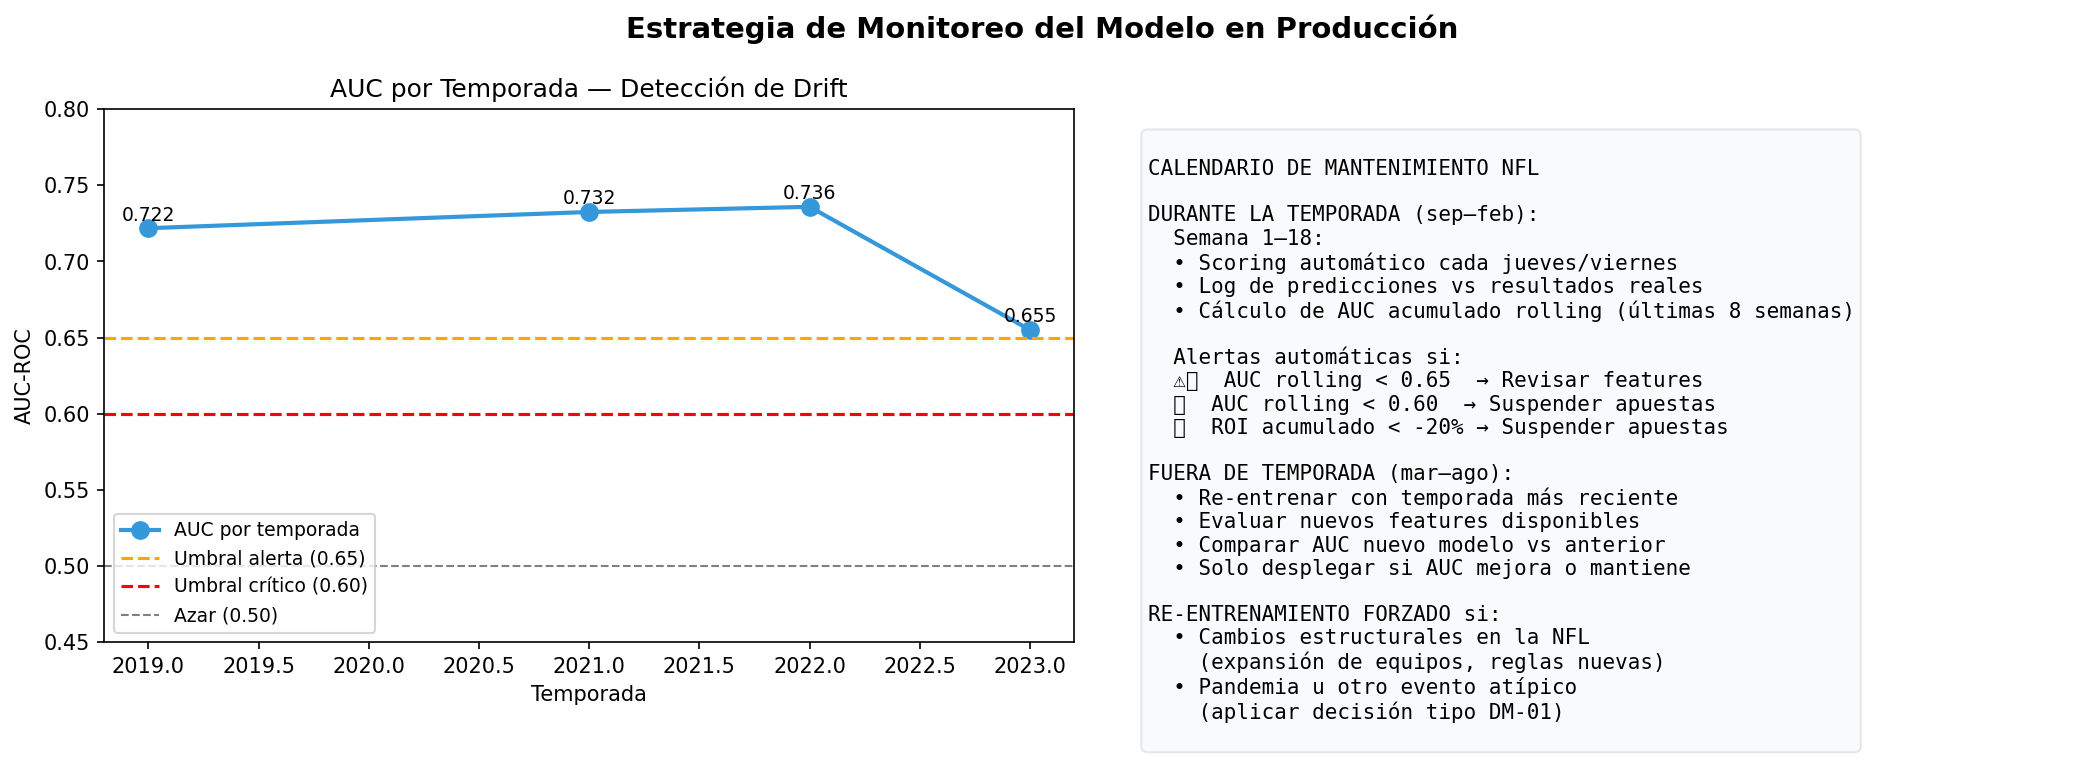
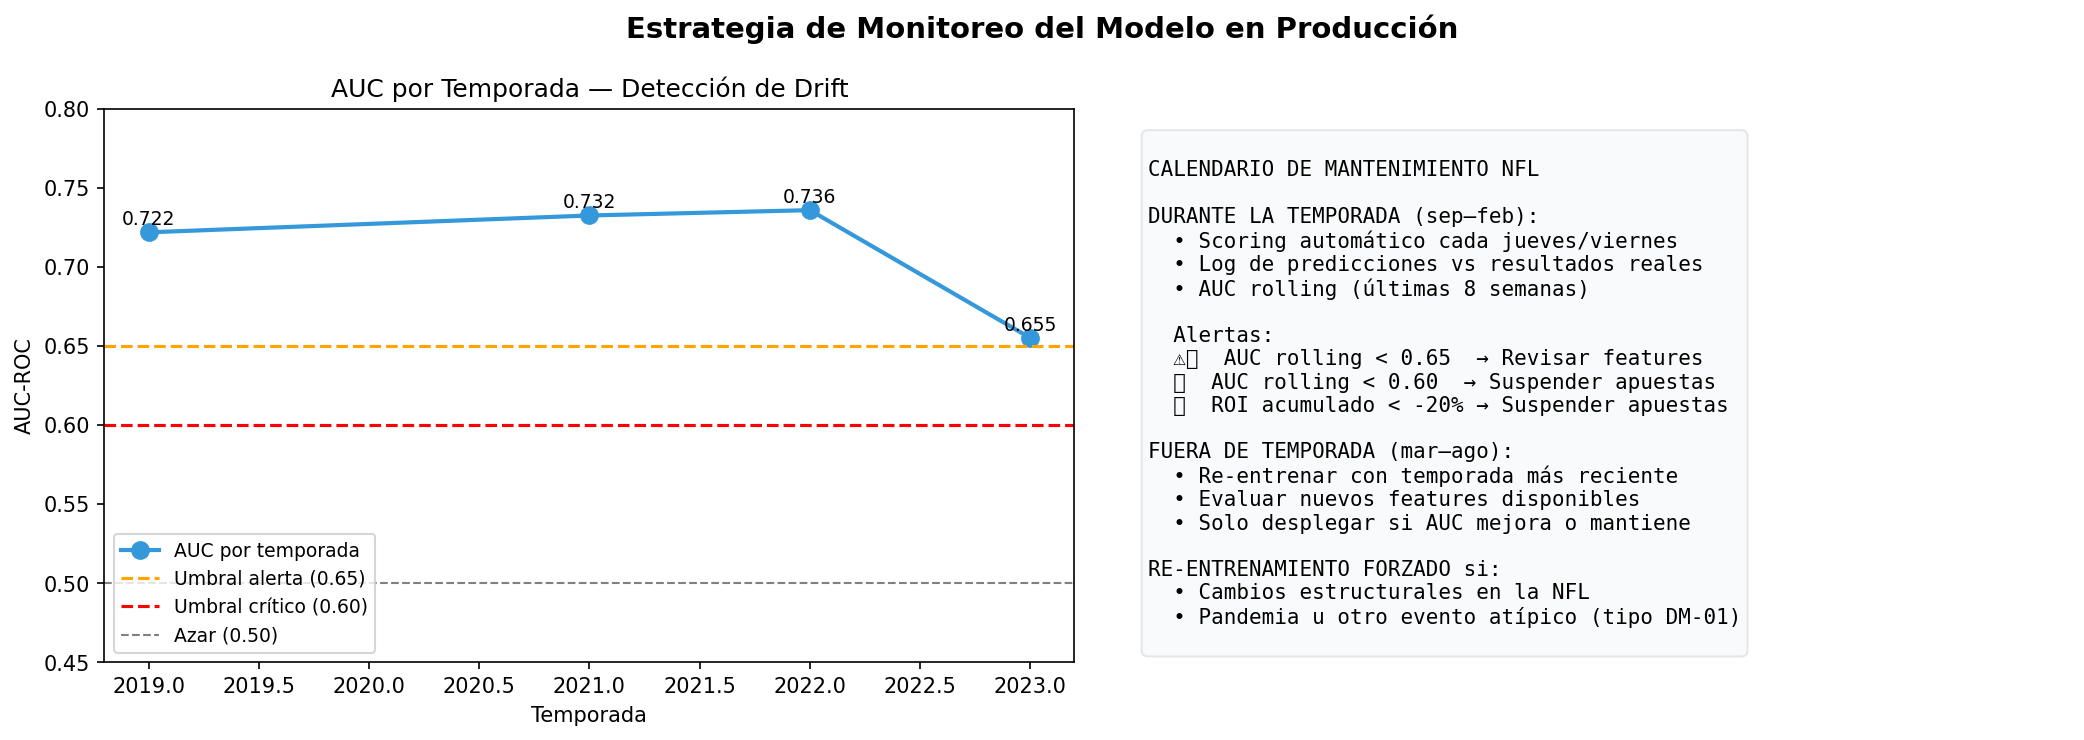
Notebook limpio - imports y dependencias consolidados en celdas 0 y 1

diff --git a/README.md b/README.md
@@ -7,21 +7,15 @@ Metodología: **CRISP-DM** | Lenguaje: **Python**
 
 ## 📋 Descripción
 
-¿Es posible construir un modelo predictivo que supere la probabilidad implícita
-de las casas de apuestas en la NFL?
+¿Es posible construir un modelo predictivo que supere la probabilidad implícita de las casas de apuestas en la NFL?
 
-Este proyecto desarrolla y evalúa tres modelos de clasificación supervisada
-(Regresión Logística, Random Forest y XGBoost) entrenados con datos históricos
-de la NFL (2002–2023) para predecir el ganador de cada partido y evaluar
-si existe una ventaja estadística explotable frente a las cuotas de las casas.
+Este proyecto desarrolla y evalúa tres modelos de clasificación supervisada (Regresión Logística, Random Forest y XGBoost) entrenados con datos históricos de la NFL (2002–2023) para predecir el ganador de cada partido.
 
 ---
 
 ## 🎯 Pregunta de negocio
 
-> ¿Puede un modelo de clasificación supervisado generar probabilidades de victoria
-> suficientemente precisas como para identificar apuestas con valor esperado
-> positivo frente a las cuotas históricas de las casas de apuestas NFL?
+> ¿Puede un modelo de clasificación supervisado generar probabilidades de victoria suficientemente precisas como para identificar apuestas con valor esperado positivo frente a las cuotas históricas de las casas?
 
 ---
 
@@ -32,9 +26,7 @@ si existe una ventaja estadística explotable frente a las cuotas de las casas.
 | `nfl_data_py` | Resultados, clima, spreads, moneylines | 2002–2023 |
 | FiveThirtyEight | ELO ratings históricos | 2002–2023 |
 
-**Muestra final:** 4,570 partidos de temporada regular
-**Variable objetivo:** `home_win` (victoria del equipo local, 0/1)
-**Tabla principal:** `dat1`
+**Muestra final:** 4,570 partidos · **Variable objetivo:** `home_win` · **Tabla principal:** `dat1`
 
 ---
 
@@ -53,34 +45,12 @@ si existe una ventaja estadística explotable frente a las cuotas de las casas.
 
 ## 🏆 Resultados
 
-### Torneo de finalistas (Test Set 2022–2023)
-
-| Modelo | AUC-ROC | Accuracy | F1 |
-|--------|---------|----------|----|
-| Regresión Logística (L1, C=0.1) | 0.6923 | 60.3% | 0.567 |
-| Random Forest (depth=5) | 0.7031 | 60.6% | 0.567 |
-| **XGBoost (depth=3, lr=0.01)** ✅ | **0.7031** | **65.5%** | **0.665** |
-| Baseline (casas de apuestas) | 0.7126 | 68.4% | — |
-
-### Simulación financiera ($100 por partido)
-
-| Estrategia | Ganancia neta | ROI |
-|------------|--------------|-----|
-| **XGBoost (ganador predicho)** | **+$140.78** | **+0.30%** |
-| Siempre apostar al local | -$81.68 | -0.17% |
-| Apostar al azar | ~-$4,500 | ~-9.57% |
-
----
-
-## 📁 Estructura del repositorio
-
-```
-beating-the-house/
-│
-├── beating_the_house.ipynb   ← Notebook principal (27 celdas)
-├── modelo_xgb_final.pkl      ← Modelo XGBoost serializado
-├── README.md                 ← Este archivo
-```
+| Modelo | AUC-ROC | Accuracy | ROI ($100/partido) |
+|--------|---------|----------|--------------------|
+| Regresión Logística | 0.6923 | 60.3% | — |
+| Random Forest | 0.7031 | 60.6% | — |
+| **XGBoost** ✅ | **0.7031** | **65.5%** | **+0.30%** |
+| Baseline (casas) | 0.7126 | 68.4% | — |
 
 ---
 
@@ -90,8 +60,7 @@ beating-the-house/
 pip install nfl_data_py pandas numpy scikit-learn xgboost matplotlib
 ```
 
-> **Nota:** Los datos se descargan automáticamente via `nfl_data_py`.
-> No se requiere ningún archivo CSV externo.
+> Los datos se descargan automáticamente via `nfl_data_py`. No se requiere ningún CSV externo.
 
 ---
 
@@ -99,21 +68,10 @@ pip install nfl_data_py pandas numpy scikit-learn xgboost matplotlib
 
 | ID | Decisión | Justificación |
 |----|----------|---------------|
-| DM-01 | Temporada 2020 excluida del modelado | COVID-19 eliminó la ventaja de localía (-6.9 pp) |
+| DM-01 | Temporada 2020 excluida | COVID-19 eliminó la ventaja de localía (-6.9 pp) |
 | DM-02 | temp/wind = 0 en estadios techados | El clima no aplica en estadios con techo |
-| DM-03 | Moneylines faltantes (2002–2006) excluidos del cálculo de EV | No hay cuota disponible |
+| DM-03 | Moneylines 2002–2006 excluidos del cálculo de EV | No hay cuota disponible |
 | DM-04 | Surface imputado por moda del equipo local | 41 faltantes (<1%) |
-
----
-
-## 📌 Conclusión
-
-El mercado de apuestas NFL es altamente eficiente pero no impenetrable.
-El modelo XGBoost logra **65.5% de accuracy** y un **ROI de +0.30%**
-apostando $100 por partido en el test set — superando la estrategia naive
-y al azar. Para alcanzar ventaja estadística consistente se requieren
-features en tiempo real (injury reports, movimiento de líneas) que
-las casas ya incorporan en sus cuotas.
 
 ---
 